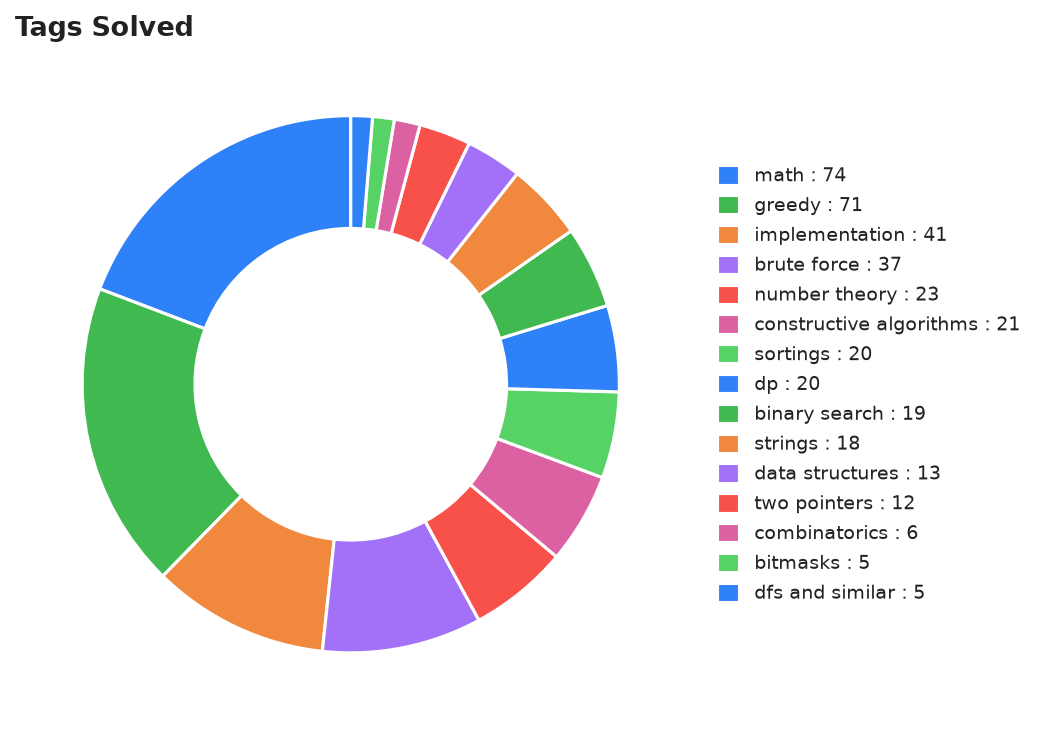
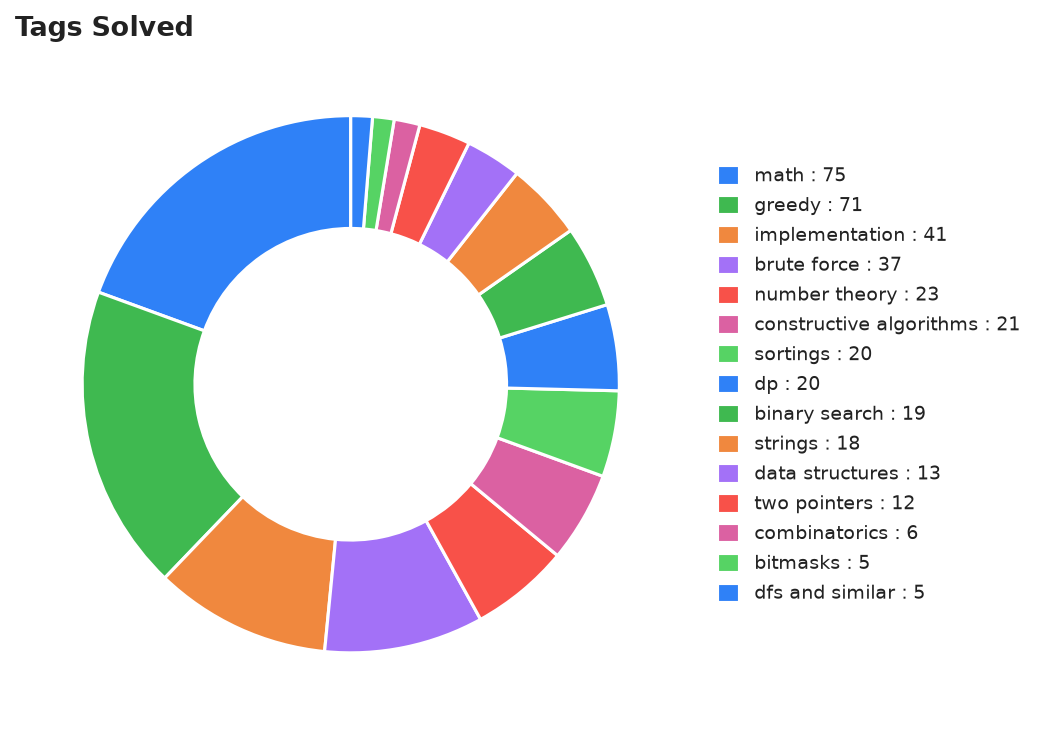
Sync: refresh analytics (rating/streak update, no new problems)

diff --git a/README.md b/README.md
@@ -4,7 +4,7 @@ Auto-generated archive of accepted Codeforces submissions for **[om_sharma_](htt
 
 - **Total solved:** 156
 - **With source attached:** 0 / 156
-- **Longest streak:** 15 days  |  **Current streak:** 1 days
+- **Longest streak:** 15 days  |  **Current streak:** 0 days
 - **Contest rating:** 1010 (max 1299)
 
 ## 📊 Analytics
@@ -54,7 +54,7 @@ Auto-generated archive of accepted Codeforces submissions for **[om_sharma_](htt
 
 | Tag | Count |
 |---|---|
-| `math` | 74 |
+| `math` | 75 |
 | `greedy` | 71 |
 | `implementation` | 41 |
 | `brute force` | 37 |
@@ -88,7 +88,7 @@ Auto-generated archive of accepted Codeforces submissions for **[om_sharma_](htt
 | # | Problem | Rating | Tags | Code | Link |
 |---|---|---|---|---|---|
 | 2258A | [Odd Eraser](problems/math/Unrated_2258A-Odd-Eraser) | ? | `math` | — | [CF](https://codeforces.com/contest/2258/problem/A) |
-| 2258B1 | [Carrot Chopdown (Easy Version)](problems/brute-force/Unrated_2258B1-Carrot-Chopdown-Easy-Version) | ? | `brute force` | — | [CF](https://codeforces.com/contest/2258/problem/B1) |
+| 2258B1 | [Carrot Chopdown (Easy Version)](problems/brute-force/Unrated_2258B1-Carrot-Chopdown-Easy-Version) | ? | `brute force`, `math` | — | [CF](https://codeforces.com/contest/2258/problem/B1) |
 | 4A | [Watermelon](problems/brute-force/0800_4A-Watermelon) | 800 | `brute force`, `math` | — | [CF](https://codeforces.com/contest/4/problem/A) |
 | 14A | [Letter](problems/implementation/0800_14A-Letter) | 800 | `implementation` | — | [CF](https://codeforces.com/contest/14/problem/A) |
 | 71A | [Way Too Long Words](problems/strings/0800_71A-Way-Too-Long-Words) | 800 | `strings` | — | [CF](https://codeforces.com/contest/71/problem/A) |
